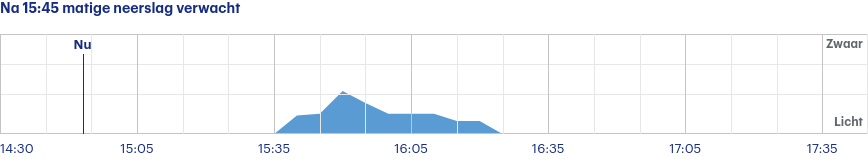
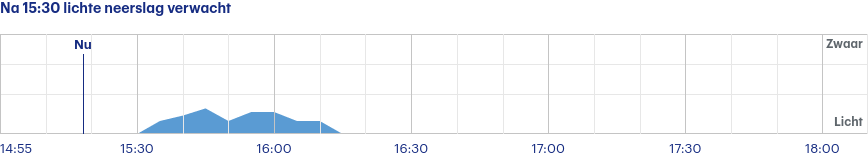
Latest scraping buienradar: Fri Jul 14 13:14:09 UTC 2023

diff --git a/scrapes/buienradar/buienradar-jette-3-uur.md b/scrapes/buienradar/buienradar-jette-3-uur.md
@@ -1,4 +1,4 @@
-Na 15:45 matige neerslag verwacht
+Na 15:30 lichte neerslag verwacht
 
 ![](buienradar-jette-3-uur.png)
 
